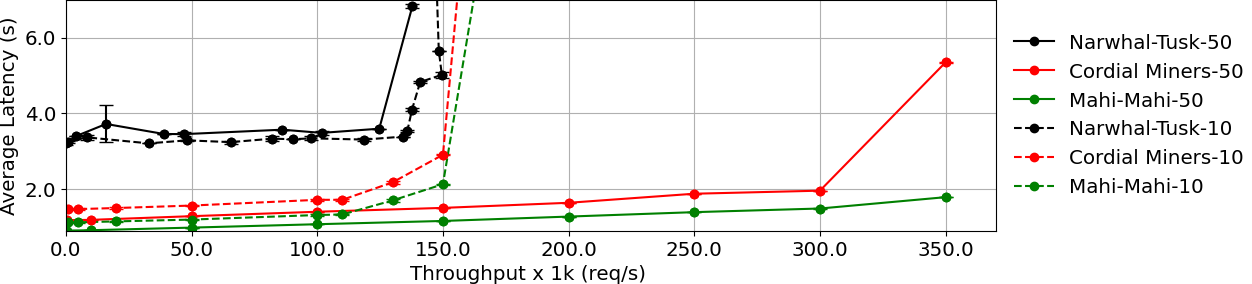
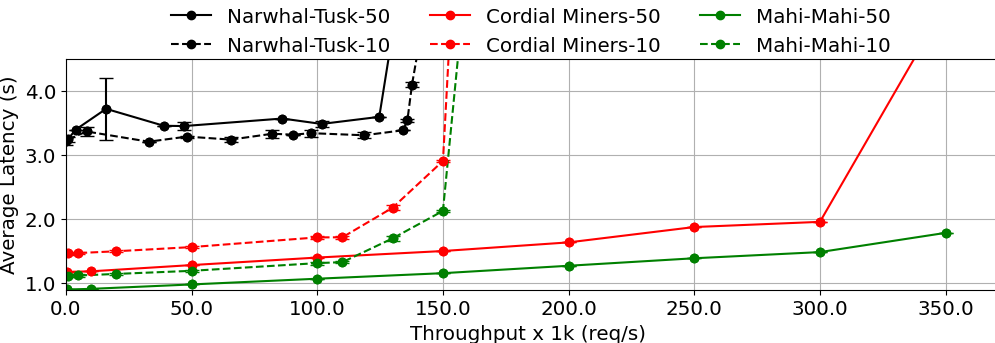
best case graph formating

Changed region(s): [[0.0, 0.0, 1.0, 1.0]]

diff --git a/experiments/peformance-graphs/simple-graph.py b/experiments/peformance-graphs/simple-graph.py
@@ -359,22 +359,22 @@ ax.xaxis.set_major_formatter(FuncFormatter(thousands))
 ax.yaxis.set_major_formatter(FuncFormatter(thousands))
 
 ax.set_xlim([0, 370000])
-ax.set_ylim([900, 7000])
+ax.set_ylim([900, 4500])
 
 plt.plot(narwhal_50_best_throughput, narwhal_50_best_latency, 'ko-', label='Narwhal-Tusk-50')
 plt.errorbar(narwhal_50_best_throughput, narwhal_50_best_latency, yerr=narwhal_50_best_std, fmt='o', ecolor='k', capsize=5,mfc='k',  mec='k' )
 
-plt.plot(cm_50_best_throughput, cm_50_best_latency, 'ro-', label='Cordial Miners-50')
-plt.errorbar(cm_50_best_throughput, cm_50_best_latency, yerr=cm_50_best_std, fmt='o', ecolor='r', capsize=5,mfc='r',  mec='r' )
-
-plt.plot(mm_50_best_throughput, mm_50_best_latency, 'go-', label='Mahi-Mahi-50')
-plt.errorbar(mm_50_best_throughput, mm_50_best_latency, yerr=mm_50_best_std, fmt='o', ecolor='g', capsize=5,mfc='g', mec='g')
-
 plt.plot(narwhal_10_best_throughput, narwhal_10_best_latency, 'ko--', label='Narwhal-Tusk-10')
 plt.errorbar(narwhal_10_best_throughput, narwhal_10_best_latency, yerr=narwhal_10_best_std, fmt='o', ecolor='k', capsize=5,mfc='k',  mec='k' )
 
+plt.plot(cm_50_best_throughput, cm_50_best_latency, 'ro-', label='Cordial Miners-50')
+plt.errorbar(cm_50_best_throughput, cm_50_best_latency, yerr=cm_50_best_std, fmt='o', ecolor='r', capsize=5,mfc='r',  mec='r' )
+
 plt.plot(cm_10_best_throughput, cm_10_best_latency, 'ro--', label='Cordial Miners-10')
 plt.errorbar(cm_10_best_throughput, cm_10_best_latency, yerr=cm_10_best_std, fmt='o', ecolor='r', capsize=5,mfc='r',  mec='r' )
+
+plt.plot(mm_50_best_throughput, mm_50_best_latency, 'go-', label='Mahi-Mahi-50')
+plt.errorbar(mm_50_best_throughput, mm_50_best_latency, yerr=mm_50_best_std, fmt='o', ecolor='g', capsize=5,mfc='g', mec='g')
 
 plt.plot(mm_w5_l1_10_best_throughput, mm_w5_l1_10_best_latency, 'go--', label='Mahi-Mahi-10')
 plt.errorbar(mm_w5_l1_10_best_throughput, mm_w5_l1_10_best_latency, yerr=mm_w5_l1_10_best_std, fmt='o', ecolor='g', capsize=5,mfc='g',  mec='g' )
@@ -383,7 +383,7 @@ plt.errorbar(mm_w5_l1_10_best_throughput, mm_w5_l1_10_best_latency, yerr=mm_w5_l
 plt.xlabel('Throughput x 1k (req/s) ')
 plt.ylabel('Average Latency (s)')
 plt.grid()
-plt.legend(loc='center left', bbox_to_anchor=(1, 0.5), frameon=False)
+plt.legend(loc='upper center', bbox_to_anchor=(0.5, 1.3), ncol=3, frameon=False)
 plt.savefig('experiments/peformance-graphs/best-case.png', bbox_inches='tight', pad_inches=0)
 plt.close()
 
